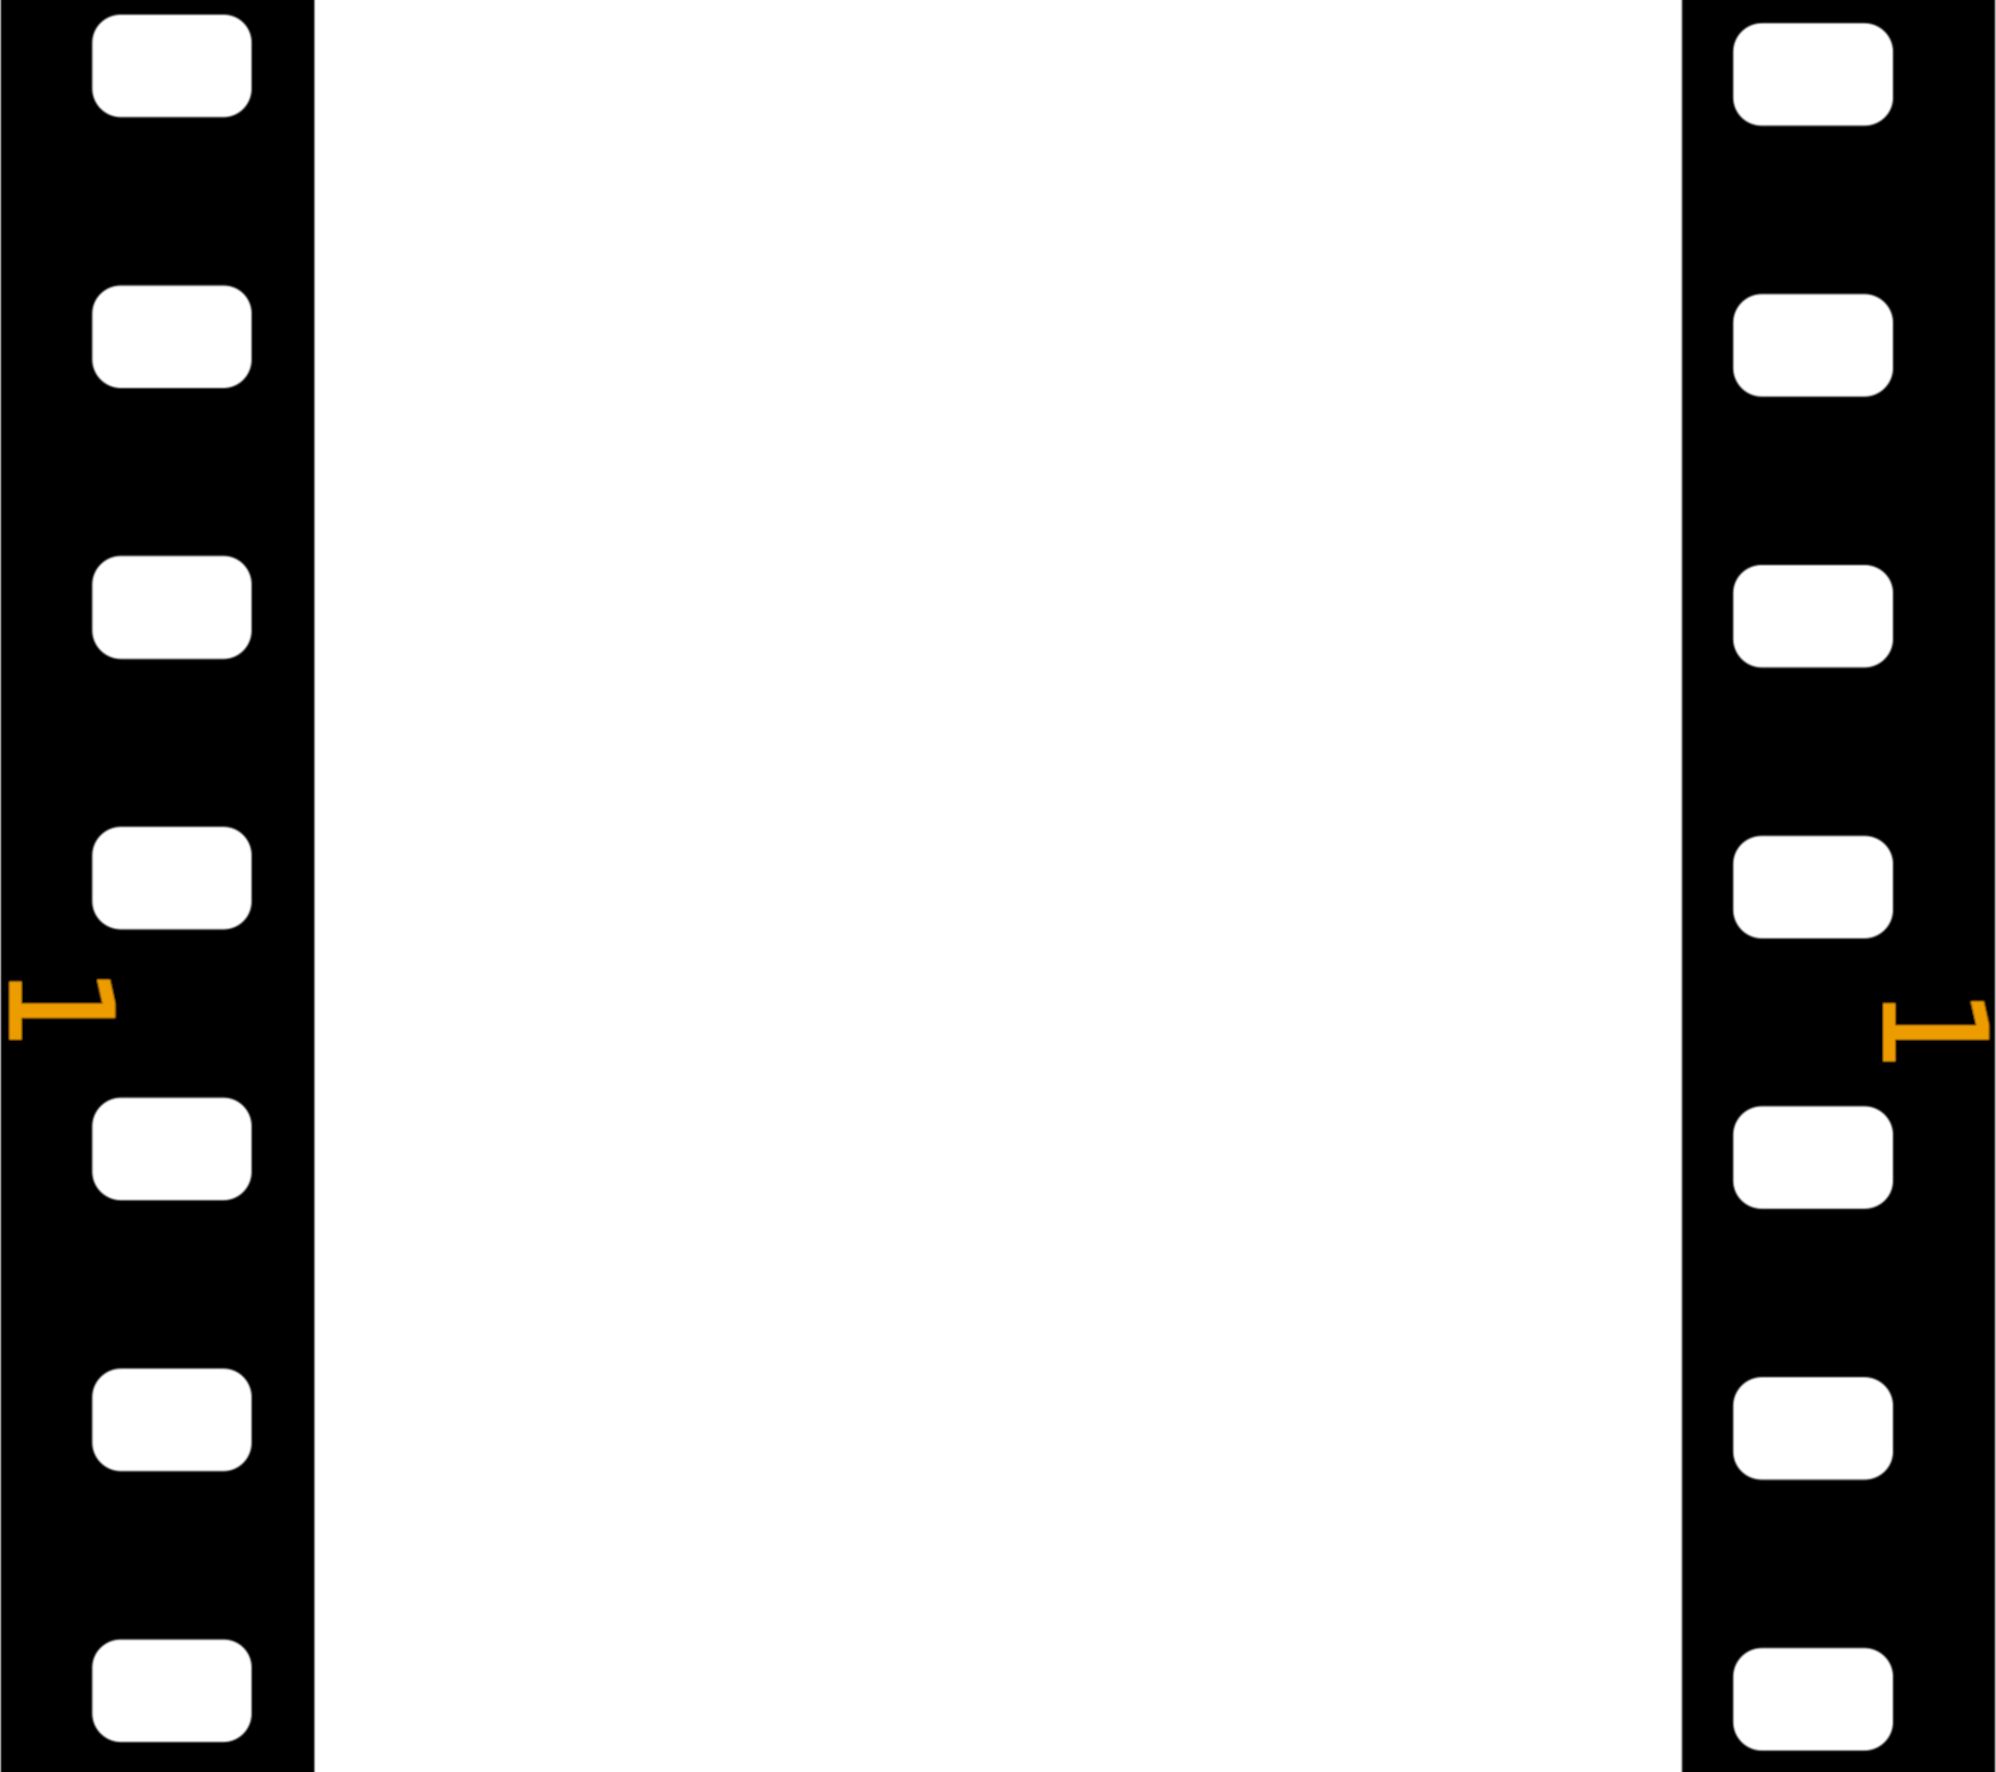
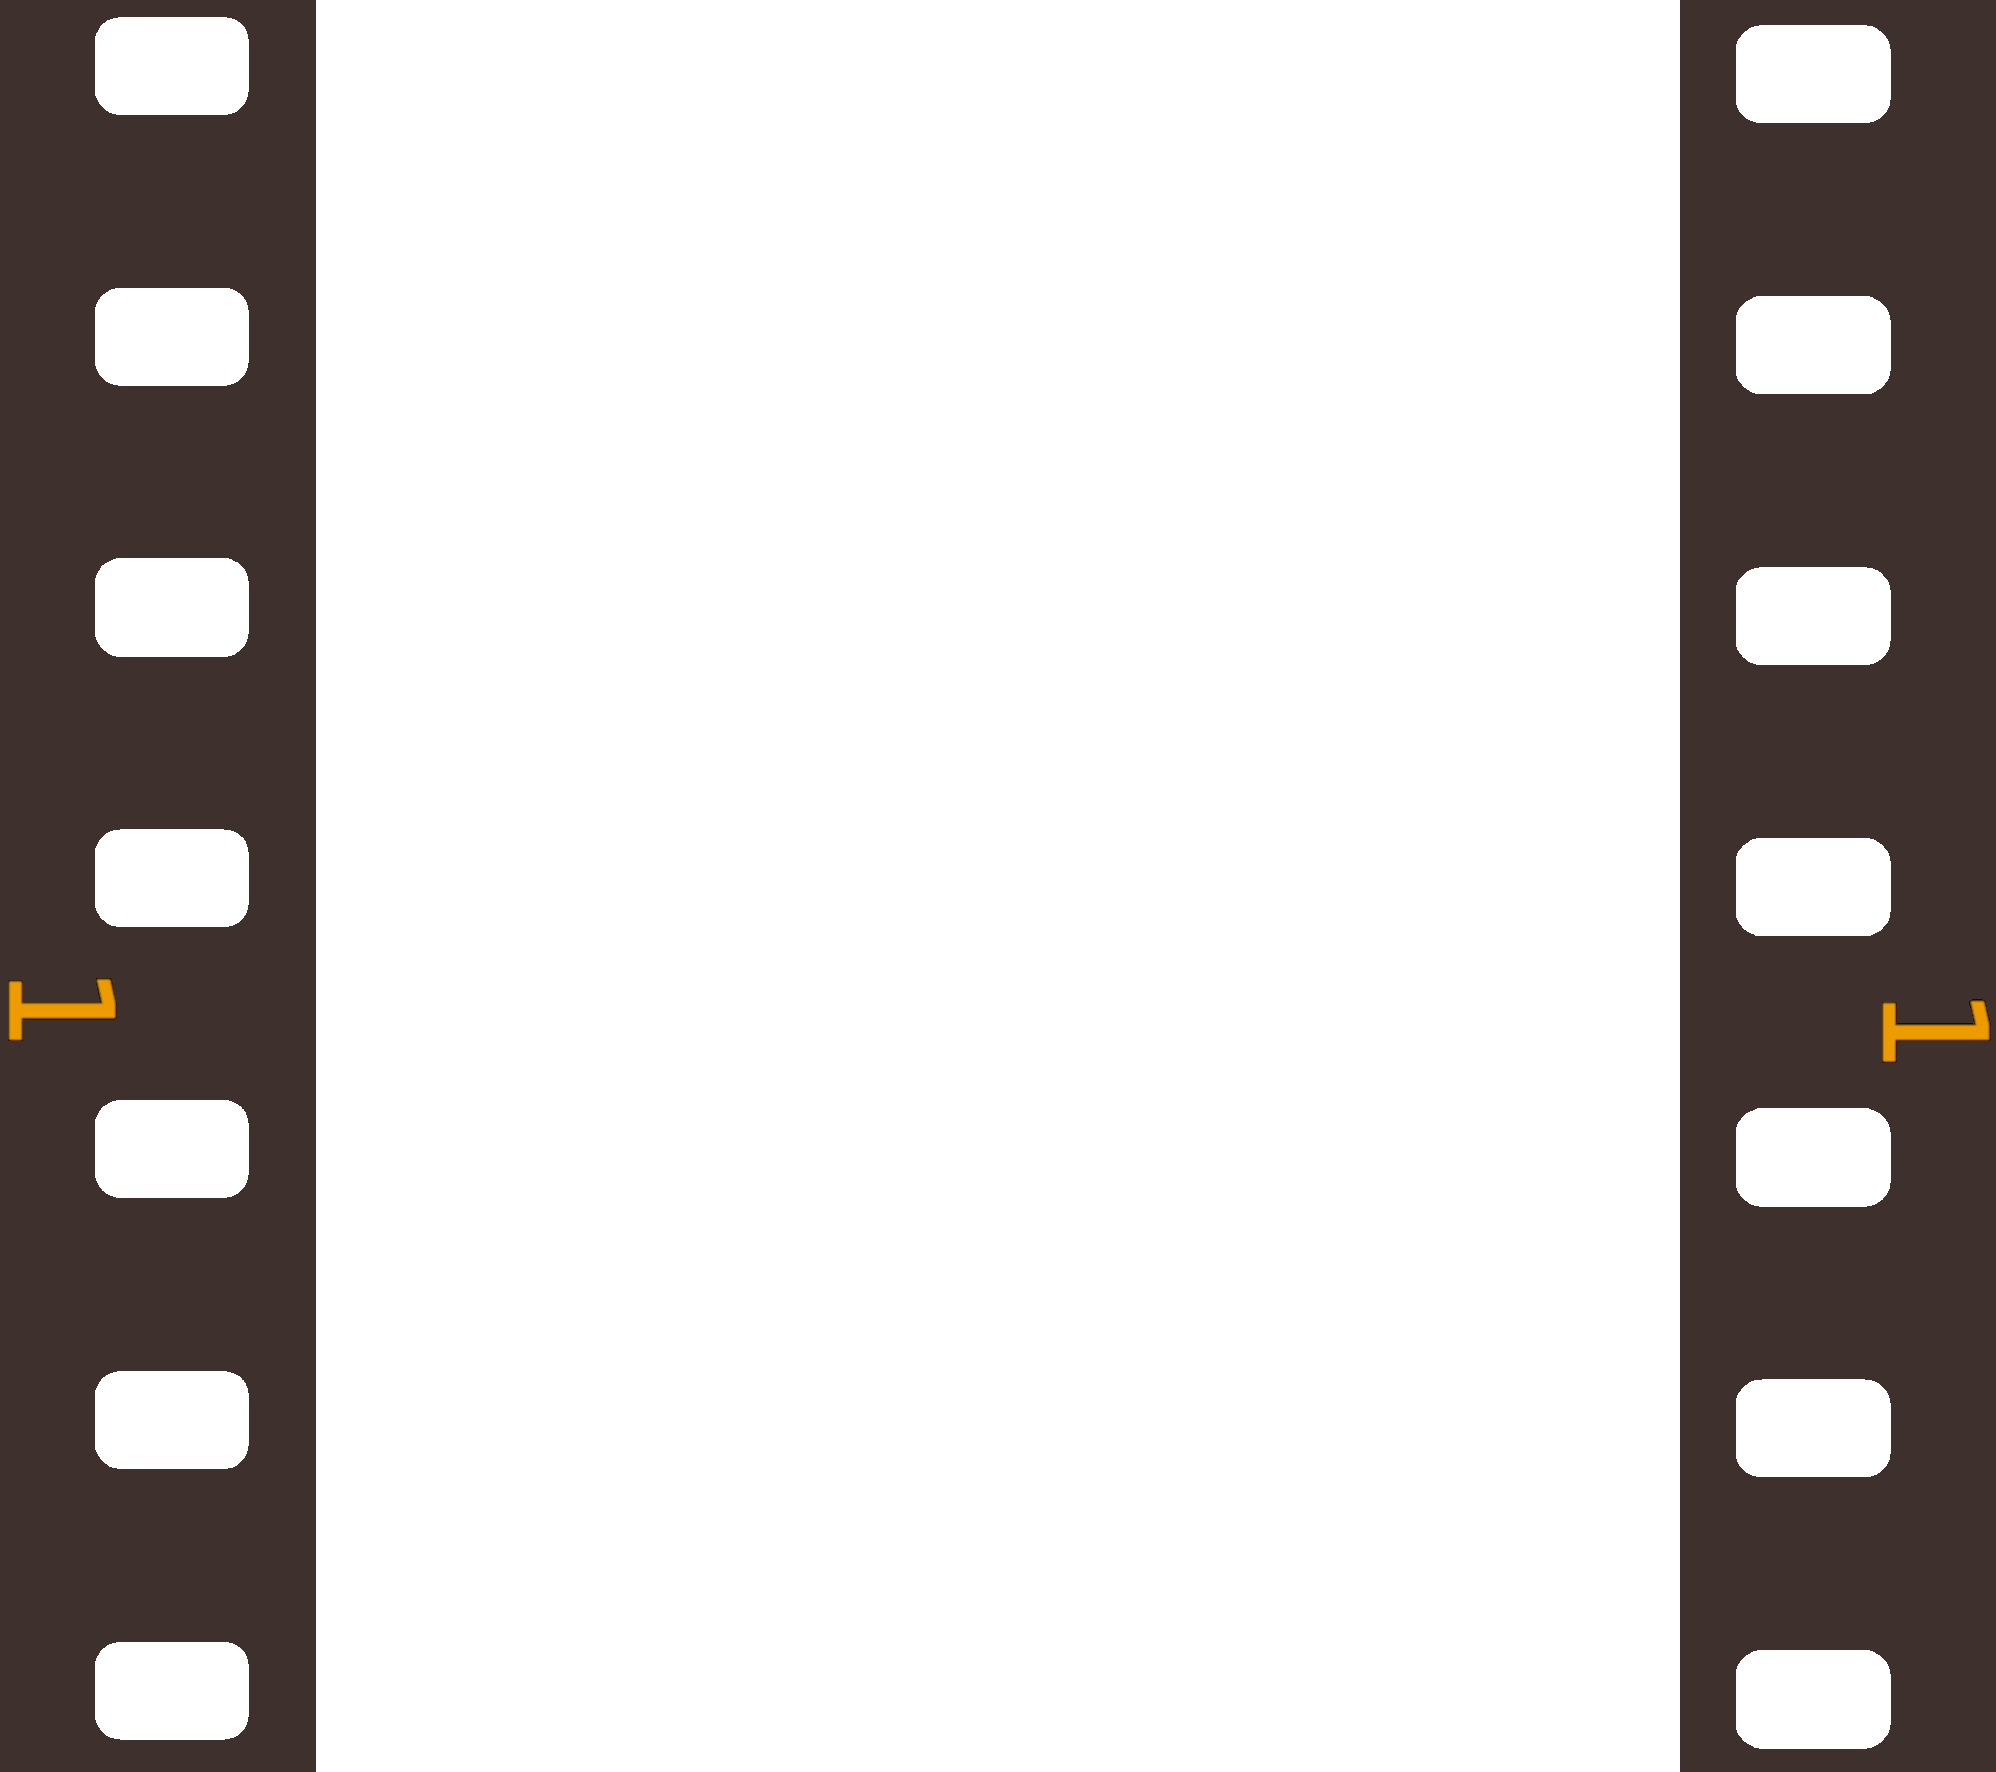
g

Changed region(s): [[0.8387, 0.0, 1.0, 1.0], [0.0, 0.0, 0.1553, 1.0]]

diff --git a/stylesheets.css b/stylesheets.css
@@ -336,7 +336,7 @@ footer {
 }
 /* Projects Section */
 .project-border {
-  background-image: url(images/film.png);
+  background-image: url(images/strip1.png);
   background-repeat: repeat;
   background-attachment: scroll;
   background-size: contain;
@@ -346,7 +346,7 @@ footer {
   display: flex;
   flex-direction: column;
   scroll-snap-align: center;
-  background-color: grey;
+  background-color: black;
   
 }
 .tech-used {
